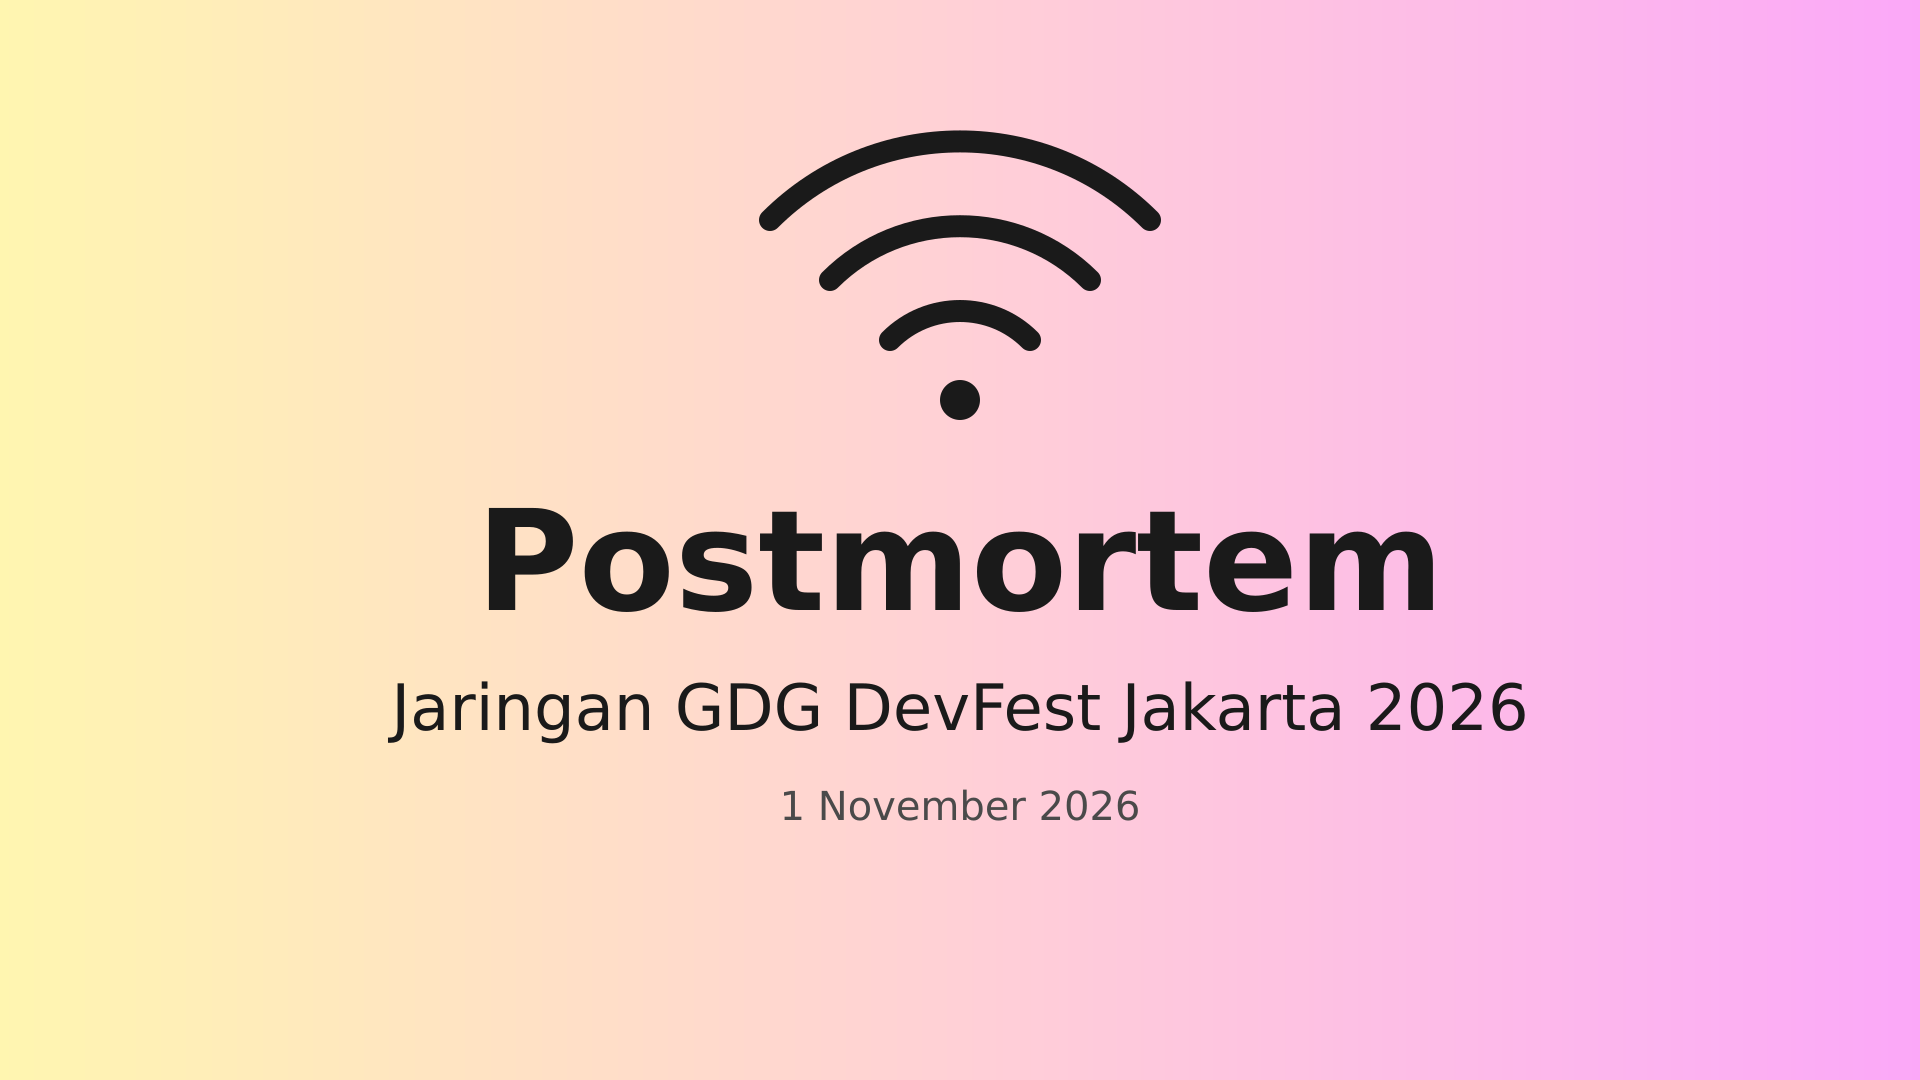
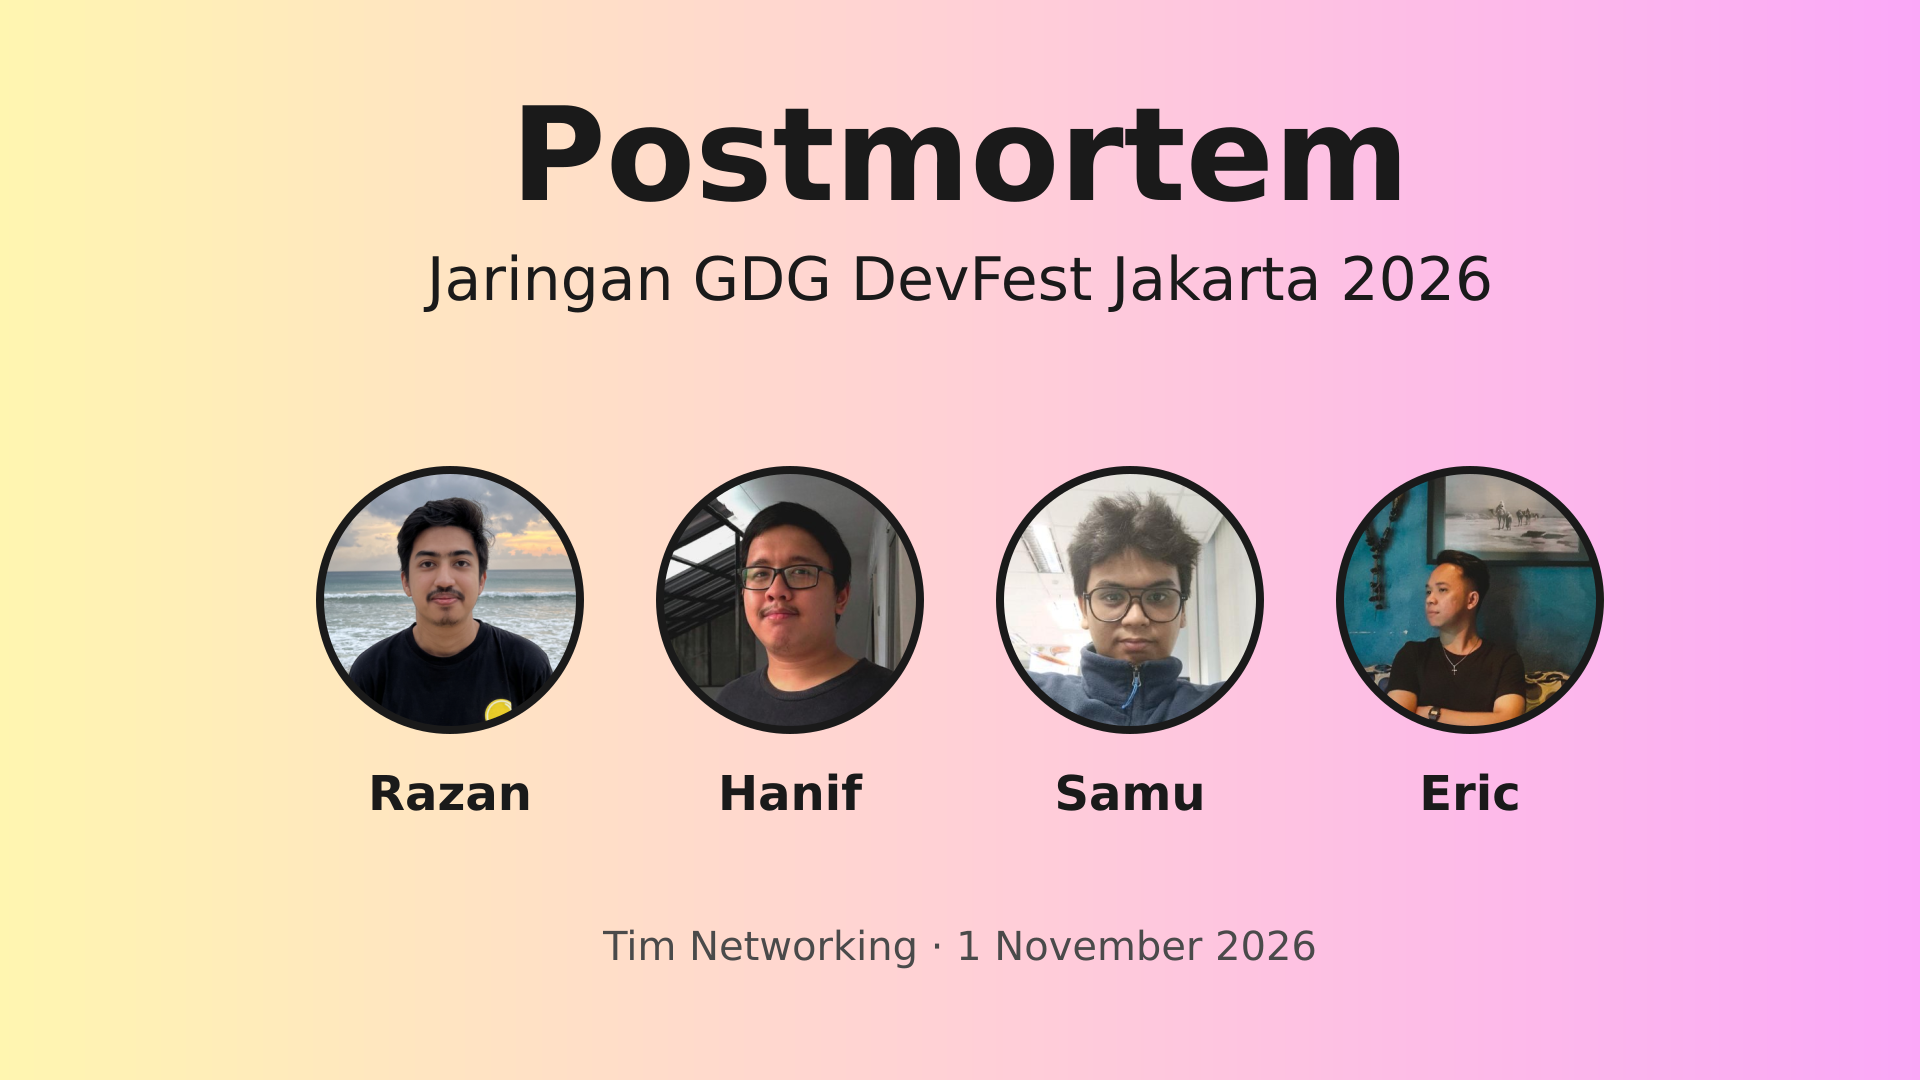
postmortem DevFest: special post berempat (byline, author cards, thumbnail)

diff --git a/blog/postmortem-jaringan-gdg-devfest-jakarta-2026.html b/blog/postmortem-jaringan-gdg-devfest-jakarta-2026.html
@@ -18,6 +18,7 @@
 
     <!-- SEO Metatags -->
     <meta name="title" content="Postmortem Jaringan GDG DevFest Jakarta 2026" />
+    <meta name="author" content="Razan, Hanif, Samu, Eric Julianto" />
     <meta name="description"
         content="Catatan tim networking GDG DevFest Jakarta 2026: apa yang rusak, apa yang jalan, dan apa yang bakal kami lakukan beda di event berikutnya" />
 
@@ -79,12 +80,31 @@
                         </ol>
                         <h2 class="text-white">Postmortem Jaringan GDG DevFest Jakarta 2026</h2>
                         <p class="text-muted">November 2, 2026</p>
+                        <div class="d-flex flex-wrap align-items-center gap-3 mb-2">
+                            <span class="d-flex align-items-center gap-2 text-white">
+                                <img src="/img/blog/06/authors/razan.png" class="rounded-circle" width="40" height="40" alt="Razan" />
+                                Razan
+                            </span>
+                            <span class="d-flex align-items-center gap-2 text-white">
+                                <img src="/img/blog/06/authors/hanif.png" class="rounded-circle" width="40" height="40" alt="Hanif" />
+                                Hanif
+                            </span>
+                            <span class="d-flex align-items-center gap-2 text-white">
+                                <img src="/img/blog/06/authors/samu.png" class="rounded-circle" width="40" height="40" alt="Samu" />
+                                Samu
+                            </span>
+                            <span class="d-flex align-items-center gap-2 text-white">
+                                <img src="/img/blog/06/authors/eric.png" class="rounded-circle" width="40" height="40" alt="Eric Julianto" />
+                                Eric Julianto
+                            </span>
+                        </div>
+                        <p class="text-muted"><i>✨ Special post: ditulis bareng berempat oleh tim networking.</i></p>
                     </div>
 
                     <article>
                         <p class="text-white">
-                            Minggu, 1 November 2026 kemarin kami berempat, Razan, Hanif, Samu, dan saya sendiri
-                            (Eric), kebagian pegang jaringan di GDG DevFest Jakarta 2026 di TMII. Bahkan sejak acara
+                            Tulisan ini spesial, karena ditulis bareng berempat. Minggu, 1 November 2026 kemarin kami,
+                            Razan, Hanif, Samu, dan Eric, kebagian pegang jaringan di GDG DevFest Jakarta 2026 di TMII. Bahkan sejak acara
                             masih berjalan, ada satu pertanyaan yang terus muncul, baik dari panitia lain, dari
                             peserta, maupun dari kami sendiri:
                             <br>
@@ -179,8 +199,8 @@
                             </li>
                         </ul>
                         <p class="text-white">
-                            Monitoring-nya sendiri jalan di laptop saya yang <b>ditinggal di venue</b> semalaman.
-                            Sambil pulang saya sempat nyeletuk, "harusnya bawa homelab atau STB"🤣
+                            Monitoring-nya sendiri jalan di laptop Eric yang <b>ditinggal di venue</b> semalaman.
+                            Sambil pulang Eric sempat nyeletuk, "harusnya bawa homelab atau STB"🤣
                         </p>
 
                         <h4 class="text-white mt-5">Monitoring</h4>
@@ -202,7 +222,7 @@
                         </ul>
                         <p class="text-white">
                             Pagi-pagi jam 8.31, dashboard yang tadinya cuma bisa dibuka di jaringan lokal tiba-tiba
-                            sudah ada di domain publik lewat Cloudflare Tunnel. "Gotta go fast" katanya. Reaksi saya
+                            sudah ada di domain publik lewat Cloudflare Tunnel. "Gotta go fast" katanya. Reaksi Eric
                             waktu itu cuma "WKWKWK ANJRIT, di laptop gue itu?" Hari itu memang playground dulu, lain
                             kali bisa lebih profesional.
                         </p>
@@ -532,27 +552,38 @@
                             pesan di grup malam itu: "Keos lagi, tapi well." Terima kasih buat seluruh panitia, tim
                             vendor, dan tim dokumentasi yang sudah kerja bareng kami, dan buat teman-teman peserta
                             workshop yang sabar banget. Semoga tahun depan "nggak lemot" yaa. Jika ada saran atau
-                            pertanyaan, silahkan DM ke twitter saya yaa. Terima kasih sudah membaca!
+                            pertanyaan, silahkan DM ke salah satu dari kami yaa. Terima kasih sudah membaca!
                         </p>
                     </article>
 
-                    <!-- ABOUT -->
+                    <!-- ABOUT: penulis berempat -->
                     <div class="about shadow-sm p-4 rounded my-5">
-                        <div class="row mx-auto align-items-center d-flex flex-column flex-md-row text-center">
-                            <div class="col-md-4 mb-4 mb-md-0">
-                                <img src="../img/profile.jfif" class="rounded-circle mw-100" width="250px" alt="" />
+                        <h4 class="text-white text-center mb-4">Ditulis bareng oleh</h4>
+                        <div class="row justify-content-center">
+                            <div class="col-6 col-md-3 text-center mb-4">
+                                <img src="/img/blog/06/authors/razan.png" class="rounded-circle mw-100 mb-3" width="140" alt="Razan" />
+                                <h5 class="text-white mb-1">Razan</h5>
+                                <p class="text-muted small mb-0">Koordinator</p>
                             </div>
-                            <div class="col-md-8">
-                                <h2 class="mb-3 text-white">Eric Julianto</h2>
-                                <p class="lead mb-4 text-white">
-                                    Research Analyst at Braincore
-                                </p>
-                                <p class="text-white">
-                                    <i>“He, who has a why to live for, can bear with almost any
-                                        how.”</i>
-                                </p>
+                            <div class="col-6 col-md-3 text-center mb-4">
+                                <img src="/img/blog/06/authors/hanif.png" class="rounded-circle mw-100 mb-3" width="140" alt="Hanif" />
+                                <h5 class="text-white mb-1">Hanif</h5>
+                                <p class="text-muted small mb-0">Wi-Fi &amp; RF</p>
+                            </div>
+                            <div class="col-6 col-md-3 text-center mb-4">
+                                <img src="/img/blog/06/authors/samu.png" class="rounded-circle mw-100 mb-3" width="140" alt="Samu" />
+                                <h5 class="text-white mb-1">Samu</h5>
+                                <p class="text-muted small mb-0">On-site, Hotspot &amp; Voucher</p>
+                            </div>
+                            <div class="col-6 col-md-3 text-center mb-4">
+                                <img src="/img/blog/06/authors/eric.png" class="rounded-circle mw-100 mb-3" width="140" alt="Eric Julianto" />
+                                <h5 class="text-white mb-1">Eric Julianto</h5>
+                                <p class="text-muted small mb-0">Monitoring</p>
                             </div>
                         </div>
+                        <p class="text-white text-center mb-0">
+                            <i>Tim Networking GDG DevFest Jakarta 2026</i>
+                        </p>
                     </div>
                     <div class="row p-3">
                         <a href="../blog.html" class="btn btn-secondary">Back to Blog</a>

diff --git a/blog.html b/blog.html
@@ -137,8 +137,9 @@
                 </h5>
                 <p class="text-muted">November 2, 2026</p>
                 <p class="text-justify">
-                  Apa yang rusak, apa yang jalan, dan apa yang kami pelajari dari
-                  jaringan DevFest Jakarta 2026...
+                  Ditulis bareng berempat: Razan, Hanif, Samu, dan Eric. Apa yang
+                  rusak, apa yang jalan, dan apa yang kami pelajari dari jaringan
+                  DevFest Jakarta 2026...
                   <a
                     href="/blog/postmortem-jaringan-gdg-devfest-jakarta-2026.html"
                     class="read-more"
@@ -148,6 +149,7 @@
                 <div class="tags">
                   <span class="tag">Tech</span>
                   <span class="tag">Networking</span>
+                  <span class="tag">Special</span>
                 </div>
               </div>
             </div>
